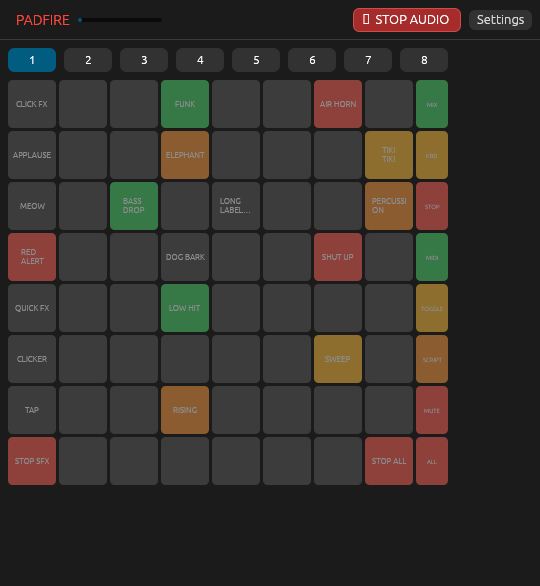
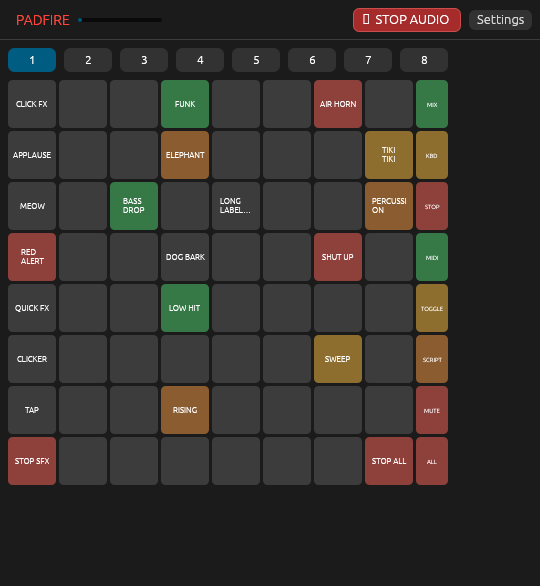
ui: strengthen theme-aware pad label contrast

diff --git a/rust/apps/padfire/src/main.rs b/rust/apps/padfire/src/main.rs
@@ -1280,7 +1280,7 @@ fn draw_pad_face(
     let font_size = if width < 40.0 { 6.0 } else { 8.0 };
     let displayed_label = pad_label_display(label, if width < 40.0 { 6 } else { 8 });
     if !displayed_label.is_empty() {
-        let text_color = visuals.text_color();
+        let text_color = visuals.strong_text_color();
         let text_rect = visual_rect.shrink(3.0);
         let galley = ui.painter().layout(
             displayed_label,
